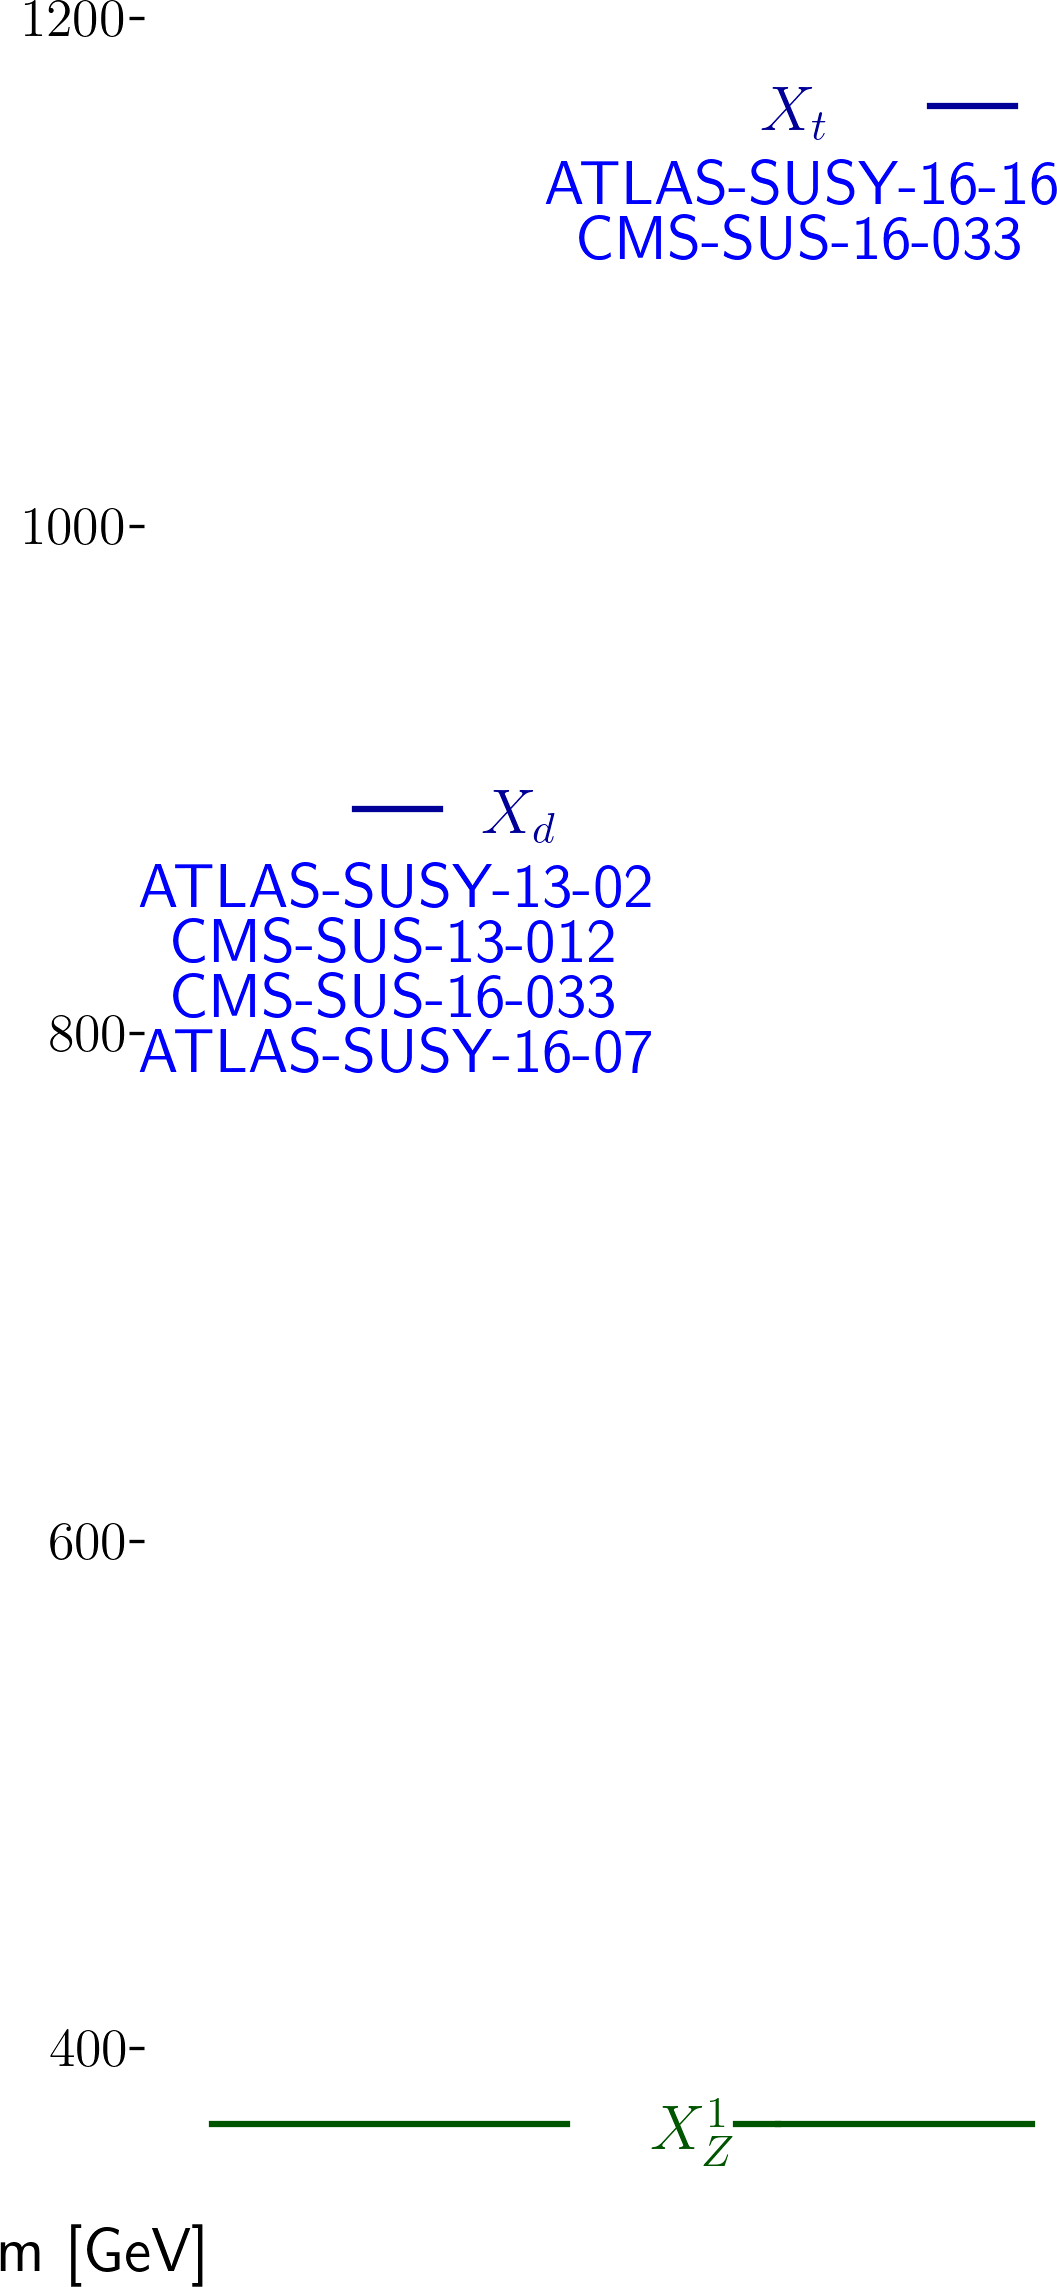
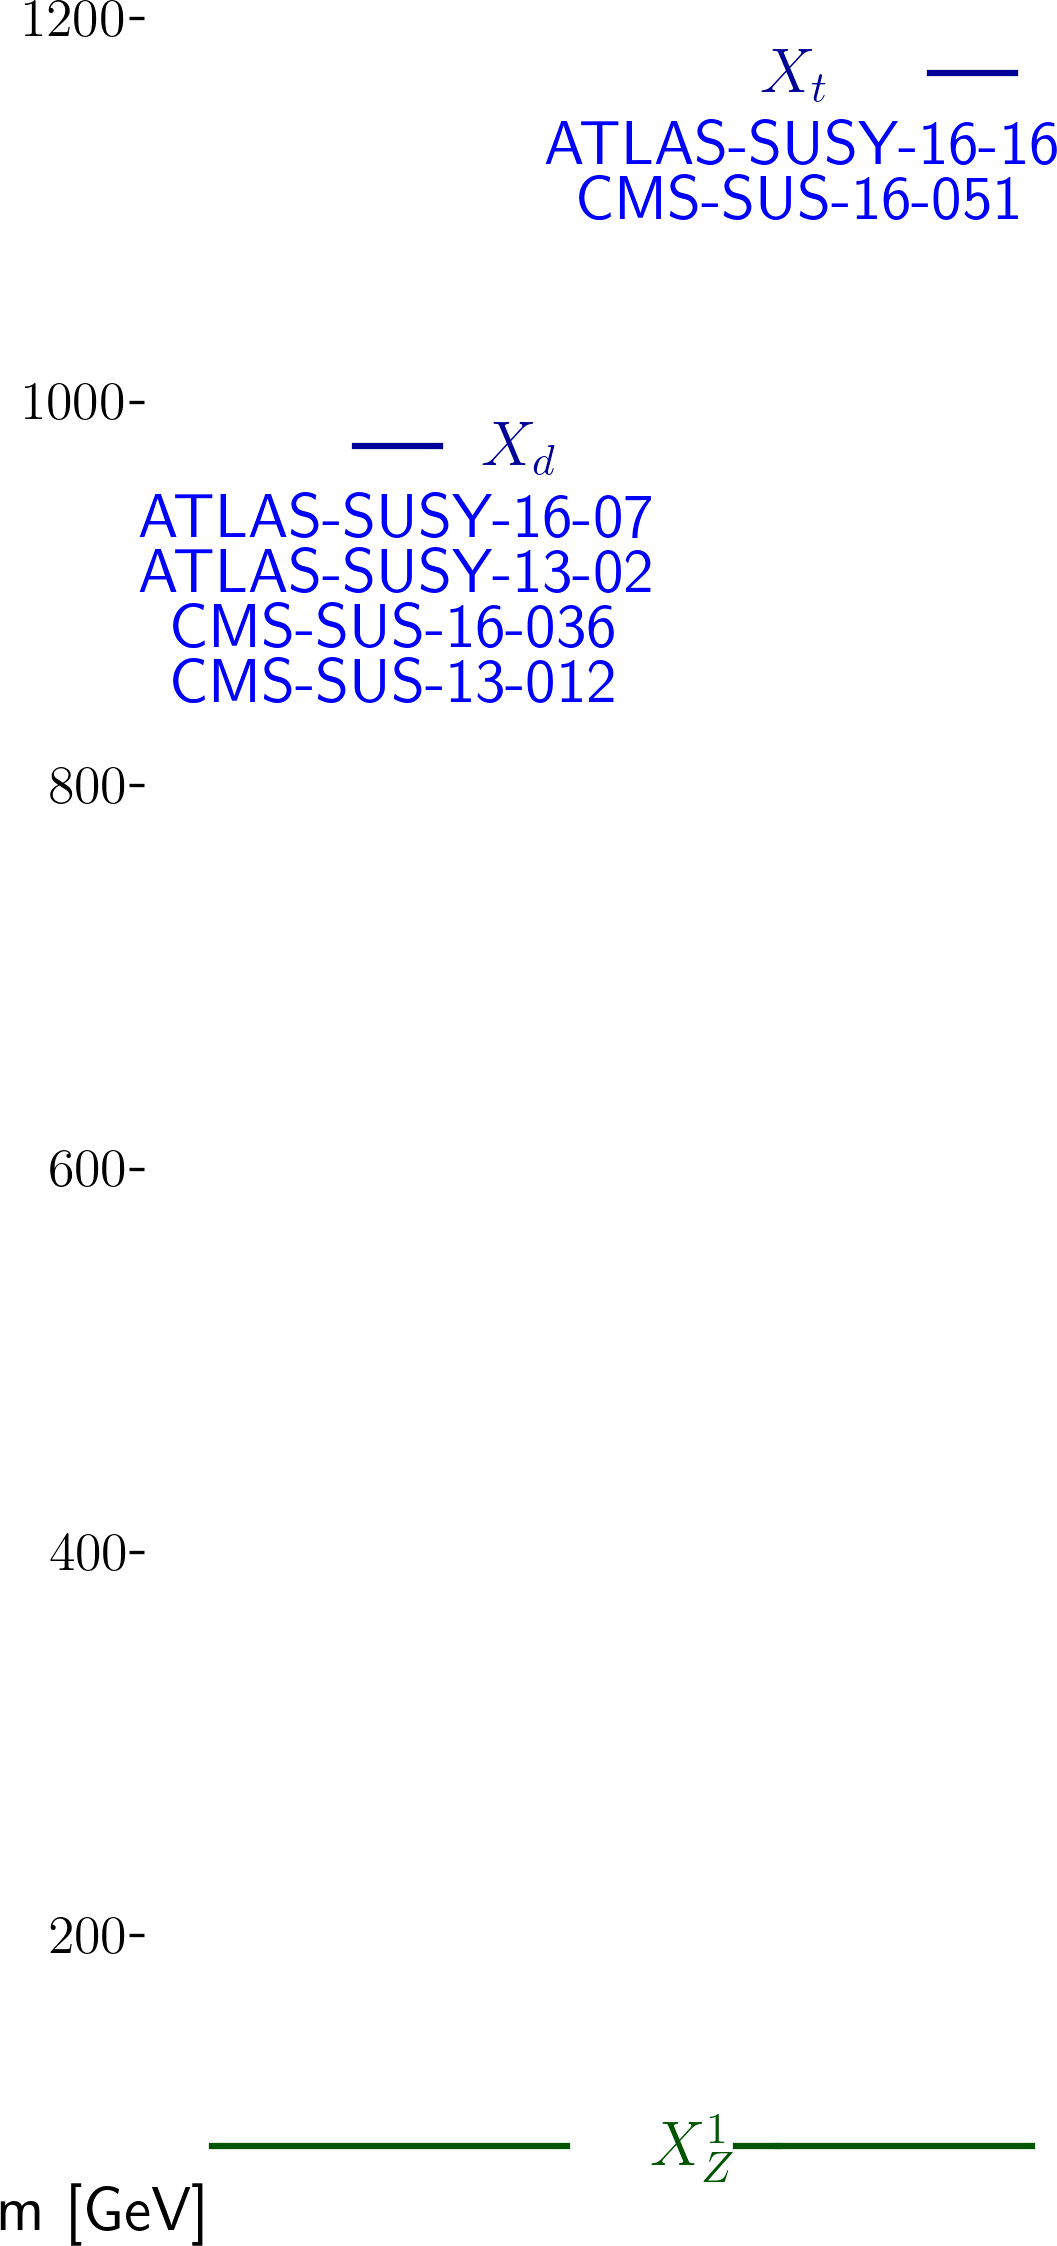
automated update by plotHiscore.py to /scratch-cbe/users/wolfgan.waltenberger/git/smodels.github.io/protomodels

diff --git a/protomodels/2020_PioneerStudy/closure_frozen2/index.html b/protomodels/2020_PioneerStudy/closure_frozen2/index.html
@@ -1,30 +1,31 @@
 <html>
 <body>
 <center>
-<table><td><h1>Current best protomodel: <i>K</i>=4.24</h1><td><img height=60px src=https://smodels.github.io/pics/banner.png></table>
+<table><td><h1>Current best protomodel: <i>K</i>=8.28</h1><td><img height=60px src=https://smodels.github.io/pics/banner.png></table>
 </center>
-<b><a href=./hiscore.slha>ProtoModel</a> <a href=./pmodel.py>(dict)</a> produced with <a href=https://smodels.github.io/docs/Validation124doublefrozen2>database v1.2.4doublefrozen2</a>, combination strategy <a href=./matrix_aggressive.png>aggressive</a> in walker 26 step 345.</b> <i>K</i> plots for: <a href=./M1000022.png?15050462>X<sub>Z</sub><sup>1</sup></a>, <a href=./M1000006.png?15050462>X<sub>t</sub></a>, <a href=./M1000001.png?15050462>X<sub>d</sub></a>. HPD plots for: <a href=./llhd1000006.png?15050462>X<sub>t</sub></a>, <a href=./llhd1000001.png?15050462>X<sub>d</sub></a>. SSM plots for: <a href=./ssm_-1000006_1000006.png?15050462>(x&#772;<sub>t</sub>,X<sub>t</sub>)</a><br>
+<b><a href=./hiscore.slha>ProtoModel</a> <a href=./pmodel.py>(dict)</a> produced with <a href=https://smodels.github.io/docs/Validation124frozen2>database v1.2.4frozen2</a>, combination strategy <a href=./matrix_aggressive.png>aggressive</a> in walker 8 step 543.</b> <i>K</i> plots for: <a href=./M1000022.png?15311252>X<sub>Z</sub><sup>1</sup></a>, <a href=./M1000006.png?15311252>X<sub>t</sub></a>, <a href=./M1000001.png?15311252>X<sub>d</sub></a>. HPD plots for: <a href=./llhd1000006.png?15311252>X<sub>t</sub></a>, <a href=./llhd1000001.png?15311252>X<sub>d</sub></a>. SSM plots for: <a href=./ssm_-1000006_1000006.png?15311252>(x&#772;<sub>t</sub>,X<sub>t</sub>)</a><br>
 <table width=80%>
 <tr><td>
 <br><b>24 predictions available. Highest r values are:</b><br><ul>
-<li><a href=http://cms-results.web.cern.ch/cms-results/public-results/publications/SUS-19-006/index.html>CMS-SUS-19-006</a>:T2 r=1.30, r<sub>exp</sub>=1.30<br>
-<li><a href=http://cms-results.web.cern.ch/cms-results/public-results/publications/SUS-19-006/index.html>CMS-SUS-19-006</a>:T2tt r=0.99, r<sub>exp</sub>=0.99<br>
-<li><a href=http://cms-results.web.cern.ch/cms-results/public-results/publications/SUS-16-033/index.html>CMS-SUS-16-033</a>:T2 r=0.98, r<sub>exp</sub>=0.98<br>
-<li><a href=http://cms-results.web.cern.ch/cms-results/public-results/publications/SUS-16-049/index.html>CMS-SUS-16-049</a>:T2tt r=0.97, r<sub>exp</sub>=0.97<br>
-<li><a href=http://cms-results.web.cern.ch/cms-results/public-results/publications/SUS-16-050/index.html>CMS-SUS-16-050</a>:T2tt r=0.93, r<sub>exp</sub>=0.93<br>
+<li><a href=http://cms-results.web.cern.ch/cms-results/public-results/publications/SUS-19-006/index.html>CMS-SUS-19-006</a>:T2tt r=0.64, r<sub>exp</sub>=N/A<br>
+<li><a href=https://atlas.web.cern.ch/Atlas/GROUPS/PHYSICS/PAPERS/SUSY-2016-07/>ATLAS-SUSY-2016-07</a>:T2 r=0.60, r<sub>exp</sub>=N/A<br>
+<li><a href=http://cms-results.web.cern.ch/cms-results/public-results/publications/SUS-16-050/index.html>CMS-SUS-16-050</a>:T2tt r=0.59, r<sub>exp</sub>=N/A<br>
+<li><a href=http://cms-results.web.cern.ch/cms-results/public-results/publications/SUS-16-049/index.html>CMS-SUS-16-049</a>:T2tt r=0.58, r<sub>exp</sub>=N/A<br>
+<li><a href=http://cms-results.web.cern.ch/cms-results/public-results/publications/SUS-16-033/index.html>CMS-SUS-16-033</a>:T2tt r=0.48, r<sub>exp</sub>=N/A<br>
 </ul>
 <td><br><b>K values without analyses: (contribution)</b><br>
 <ul>
-<li> <a href=https://twiki.cern.ch/twiki/bin/view/CMSPublic/PhysicsResultsSUS13012>CMS-SUS-13-012</a>: 4.97 (-15%)
-<li> <a href=https://atlas.web.cern.ch/Atlas/GROUPS/PHYSICS/PAPERS/SUSY-2013-02/>ATLAS-SUSY-2013-02</a>: 4.74 (-11%)
-<li> <a href=http://cms-results.web.cern.ch/cms-results/public-results/publications/SUS-16-033/index.html>CMS-SUS-16-033</a>: 4.15 (2%)
-<li> <a href=https://atlas.web.cern.ch/Atlas/GROUPS/PHYSICS/PAPERS/SUSY-2016-16/>ATLAS-SUSY-2016-16</a>: 2.54 (36%)
-<li> <a href=https://atlas.web.cern.ch/Atlas/GROUPS/PHYSICS/PAPERS/SUSY-2016-07/>ATLAS-SUSY-2016-07</a>: 0.10 (88%)
-<td><img width=600px src=./texdoc.png?1608050462>
-<br><font size=-1>Last updated: Tue Dec 15 17:41:02 2020</font>
+<li> <a href=http://cms-results.web.cern.ch/cms-results/public-results/publications/SUS-16-051/index.html>CMS-SUS-16-051</a>: 0.48 (15%)
+<li> <a href=https://twiki.cern.ch/twiki/bin/view/CMSPublic/PhysicsResultsSUS13012>CMS-SUS-13-012</a>: 0.48 (15%)
+<li> <a href=http://cms-results.web.cern.ch/cms-results/public-results/publications/SUS-16-036/index.html>CMS-SUS-16-036</a>: 0.48 (15%)
+<li> <a href=https://atlas.web.cern.ch/Atlas/GROUPS/PHYSICS/PAPERS/SUSY-2013-02/>ATLAS-SUSY-2013-02</a>: 0.41 (15%)
+<li> <a href=https://atlas.web.cern.ch/Atlas/GROUPS/PHYSICS/PAPERS/SUSY-2016-07/>ATLAS-SUSY-2016-07</a>: -0.79 (18%)
+<li> <a href=https://atlas.web.cern.ch/Atlas/GROUPS/PHYSICS/PAPERS/SUSY-2016-16/>ATLAS-SUSY-2016-16</a>: -2.21 (21%)
+<td><img width=600px src=./texdoc.png?1608311252>
+<br><font size=-1>Last updated: Fri Dec 18 18:07:32 2020</font>
 </table><table style="width:80%">
-<td width=45%><img height=580px src=./ruler.png?1608050462><td width=55%><img height=380px src=./decays.png?1608050462>
-<font size=-3><iframe type="text/html" height="220px" width="100%s" frameborder="0" src="./rawnumbers.html?1608050462"></iframe></font>
+<td width=45%><img height=580px src=./ruler.png?1608311252><td width=55%><img height=380px src=./decays.png?1608311252>
+<font size=-3><iframe type="text/html" height="220px" width="100%s" frameborder="0" src="./rawnumbers.html?1608311252"></iframe></font>
 </table>
 </body>
 </html>

diff --git a/protomodels/2020_PioneerStudy/closure_frozen2/rawnumbers.html b/protomodels/2020_PioneerStudy/closure_frozen2/rawnumbers.html
@@ -1,9 +1,10 @@
 <table>
 <tr><th>Analysis Name</th><th>Type</th><th>Dataset</th><th>Topos</th><th>Observed</th><th>Expected</th><th>Approx &sigma;</th><th>Particles</th><th>Signal</th>
 </tr>
-<tr><td><a href=https://atlas.web.cern.ch/Atlas/GROUPS/PHYSICS/PAPERS/SUSY-2013-02/>ATLAS-SUSY-2013-02</a></td><td>em</td> <td>SR2jm</td><td>T2</td><td>791.45</td><td>760 +/- 50</td><td style="text-align:right">0.6 &sigma;</td><td style="text-align:right">X<sub>d</sub></td><td style="text-align:right">31.45</td></tr>
-<tr><td><a href=https://atlas.web.cern.ch/Atlas/GROUPS/PHYSICS/PAPERS/SUSY-2016-07/>ATLAS-SUSY-2016-07</a></td><td>em</td> <td>2j_Meff_1200</td><td>T2</td><td>614.32</td><td>526 +/- 31</td><td style="text-align:right">2.3 &sigma;</td><td style="text-align:right">X<sub>d</sub></td><td style="text-align:right">88.32</td></tr>
+<tr><td><a href=https://atlas.web.cern.ch/Atlas/GROUPS/PHYSICS/PAPERS/SUSY-2013-02/>ATLAS-SUSY-2013-02</a></td><td>em</td> <td>SR4jt</td><td>T2</td><td>2.73</td><td>2.5 +/- 1</td><td style="text-align:right">0.1 &sigma;</td><td style="text-align:right">X<sub>d</sub></td><td style="text-align:right">0.23</td></tr>
+<tr><td><a href=https://atlas.web.cern.ch/Atlas/GROUPS/PHYSICS/PAPERS/SUSY-2016-07/>ATLAS-SUSY-2016-07</a></td><td>em</td> <td>2j_Meff_1200</td><td>T2</td><td>570.16</td><td>526 +/- 31</td><td style="text-align:right">1.1 &sigma;</td><td style="text-align:right">X<sub>d</sub></td><td style="text-align:right">44.16</td></tr>
 <tr><td><a href=https://atlas.web.cern.ch/Atlas/GROUPS/PHYSICS/PAPERS/SUSY-2016-16/>ATLAS-SUSY-2016-16</a></td><td>em</td> <td>tN_high</td><td>T2tt</td><td>7.73</td><td>3.8 +/- 1</td><td style="text-align:right">1.8 &sigma;</td><td style="text-align:right">X<sub>t</sub></td><td style="text-align:right">3.93</td></tr>
-<tr><td><a href=https://twiki.cern.ch/twiki/bin/view/CMSPublic/PhysicsResultsSUS13012>CMS-SUS-13-012</a></td><td>em</td> <td>6NJet8_1250HT15 ...</td><td>T2</td><td>0.74</td><td>0.5 +/- 2.6</td><td style="text-align:right">0.1 &sigma;</td><td style="text-align:right">X<sub>d</sub></td><td style="text-align:right">0.24</td></tr>
-<tr><td><a href=http://cms-results.web.cern.ch/cms-results/public-results/publications/SUS-16-033/index.html>CMS-SUS-16-033</a></td><td>em</td> <td>SR1_Njet2_Nb0_H ...</td><td>T2, T2tt</td><td>8000.72</td><td>7584 +/- 433</td><td style="text-align:right">0.9 &sigma;</td><td style="text-align:right">X<sub>d</sub>, X<sub>t</sub></td><td style="text-align:right">416.72</td></tr>
+<tr><td><a href=https://twiki.cern.ch/twiki/bin/view/CMSPublic/PhysicsResultsSUS13012>CMS-SUS-13-012</a></td><td>ul</td> <td>-</td><td>T2</td><td> 9.0 fb </td><td> 6.3 fb</td><td style="text-align:right">0.8 &sigma;</td><td style="text-align:right">X<sub>d</sub></td><td style="text-align:right">2.66 fb</td></tr>
+<tr><td><a href=http://cms-results.web.cern.ch/cms-results/public-results/publications/SUS-16-036/index.html>CMS-SUS-16-036</a></td><td>ul</td> <td>-</td><td>T2</td><td> 33.1 fb </td><td> 9.1 fb</td><td style="text-align:right">5.2 &sigma;</td><td style="text-align:right">X<sub>d</sub></td><td style="text-align:right">23.95 fb</td></tr>
+<tr><td><a href=http://cms-results.web.cern.ch/cms-results/public-results/publications/SUS-16-051/index.html>CMS-SUS-16-051</a></td><td>ul</td> <td>-</td><td>T2tt</td><td> 7.1 fb </td><td> 4.5 fb</td><td style="text-align:right">1.1 &sigma;</td><td style="text-align:right">X<sub>t</sub></td><td style="text-align:right">2.62 fb</td></tr>
 </table>

diff --git a/protomodels/2020_PioneerStudy/closure_frozen2/pmodel.py b/protomodels/2020_PioneerStudy/closure_frozen2/pmodel.py
@@ -1,1 +1,1 @@
-{'masses': {1000022: 360.239, 1000006: 1155.618, 1000001: 878.641}, 'ssmultipliers': {(1000022, 1000022): 0.0, (1000006, 1000006): 1.291, (-1000006, 1000006): 1.291, (-1000006, -1000006): 1.291, (1000006, 1000022): 1.291, (-1000006, 1000022): 1.291, (1000001, 1000001): 1.469, (-1000001, 1000001): 1.469, (-1000001, -1000001): 1.469, (1000001, 1000022): 1.469, (-1000001, 1000022): 1.469, (1000001, 1000006): 1.469, (-1000001, 1000006): 1.469, (-1000006, 1000001): 1.469, (-1000006, -1000001): 1.469}, 'decays': {1000022: {}, 1000006: {(1000022, 6): 1.0}, 1000001: {(1000022, 1): 1.0}}, 'timestamp': 'Tue Dec 15 17:40:53 2020', 'Z': 2.8, 'K': 4.241, 'walkerid': 26, 'step': 345, 'codever': '1.0', 'dbver': '1.2.4doublefrozen2'}
+{'masses': {1000022: 80.024, 1000001: 966.782, 1000006: 1161.524}, 'ssmultipliers': {(1000022, 1000022): 0.0, (1000001, 1000001): 1.363, (-1000001, 1000001): 1.362, (-1000001, -1000001): 0.0, (1000001, 1000022): 1.402, (-1000001, 1000022): 1.402, (1000006, 1000006): 1.417, (-1000006, 1000006): 1.417, (-1000006, -1000006): 1.417, (1000006, 1000022): 1.417, (-1000006, 1000022): 1.417, (1000001, 1000006): 1.435, (-1000006, 1000001): 1.435, (-1000001, 1000006): 1.435, (-1000006, -1000001): 1.435}, 'decays': {1000022: {}, 1000001: {(1000022, 1): 1.0}, 1000006: {(1000022, 6): 1.0}}, 'timestamp': 'Fri Dec 18 18:07:20 2020', 'Z': 3.439, 'K': 8.278, 'walkerid': 8, 'step': 543, 'codever': '1.0', 'dbver': '1.2.4frozen2'}
